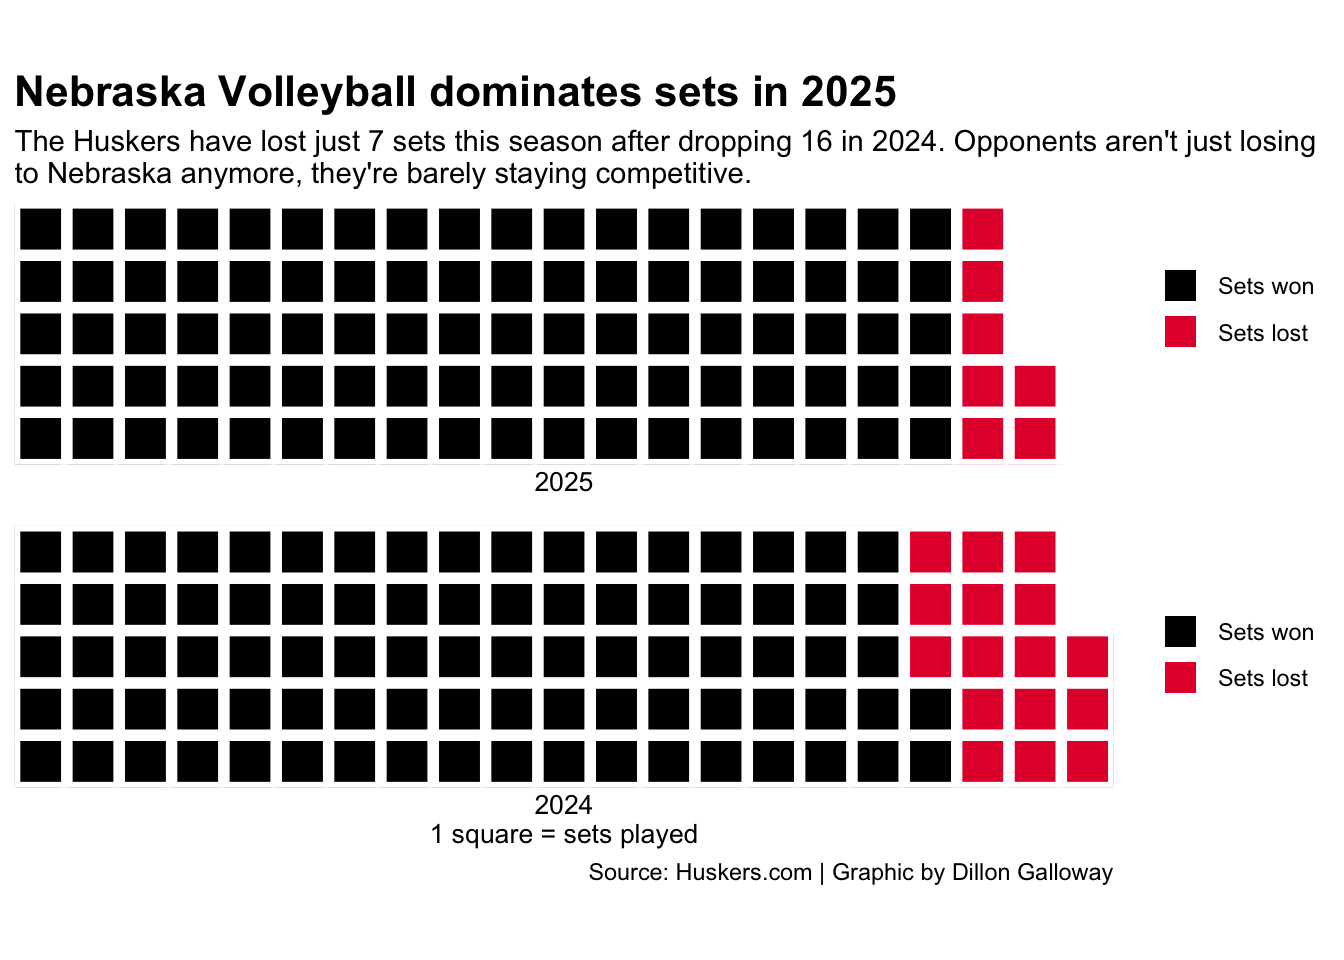
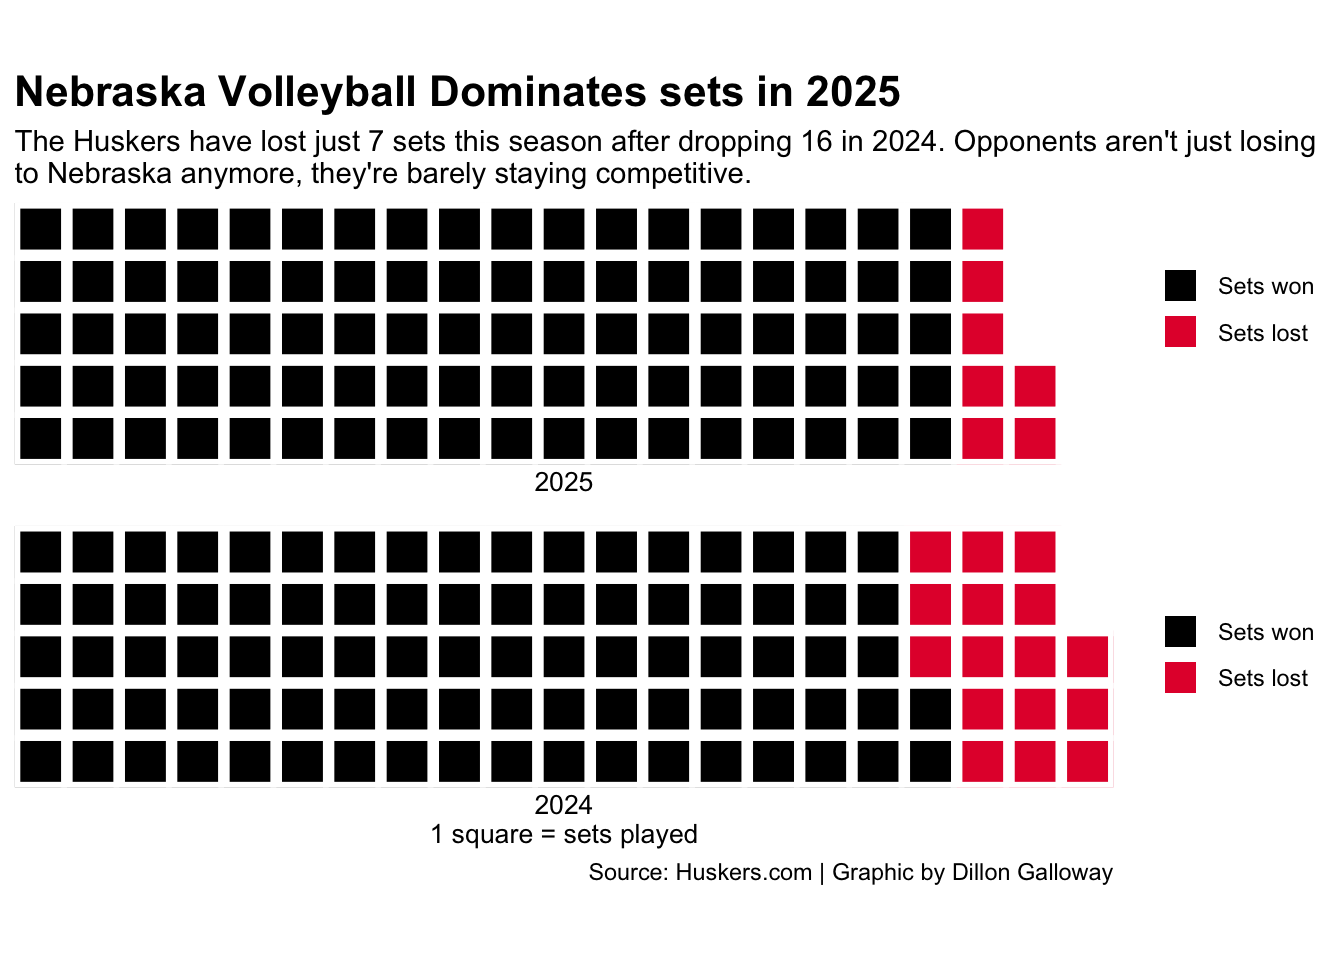
post image and fixes

Changed region(s): [[0.3125, 0.0625, 0.6875, 0.125]]

diff --git a/posts/has_nebraska_volleyball_improved_in_2025/index.html b/posts/has_nebraska_volleyball_improved_in_2025/index.html
@@ -218,7 +218,7 @@ pre > code.sourceCode > span > a:first-child::before { text-decoration: underlin
 <span id="cb1-14"><a href="#cb1-14" aria-hidden="true" tabindex="-1"></a>        <span class="at">colors =</span> <span class="fu">c</span>(<span class="st">"#000000"</span>, <span class="st">"#E41C38"</span>,<span class="st">"white"</span>)) <span class="sc">+</span> </span>
 <span id="cb1-15"><a href="#cb1-15" aria-hidden="true" tabindex="-1"></a>   <span class="fu">labs</span>(</span>
 <span id="cb1-16"><a href="#cb1-16" aria-hidden="true" tabindex="-1"></a>     <span class="at">x=</span><span class="st">"2025"</span>,</span>
-<span id="cb1-17"><a href="#cb1-17" aria-hidden="true" tabindex="-1"></a>     <span class="at">title=</span><span class="st">"Nebraska Volleyball dominates sets in 2025"</span>, </span>
+<span id="cb1-17"><a href="#cb1-17" aria-hidden="true" tabindex="-1"></a>     <span class="at">title=</span><span class="st">"Nebraska Volleyball Dominates sets in 2025"</span>, </span>
 <span id="cb1-18"><a href="#cb1-18" aria-hidden="true" tabindex="-1"></a>     <span class="at">subtitle=</span><span class="st">"The Huskers have lost just 7 sets this season after dropping 16 in 2024. Opponents aren't just losing </span><span class="sc">\n</span><span class="st">to Nebraska anymore, they're barely staying competitive."</span>) <span class="sc">+</span> </span>
 <span id="cb1-19"><a href="#cb1-19" aria-hidden="true" tabindex="-1"></a>   <span class="fu">theme</span>(</span>
 <span id="cb1-20"><a href="#cb1-20" aria-hidden="true" tabindex="-1"></a>    <span class="at">plot.title =</span> <span class="fu">element_text</span>(<span class="at">size =</span> <span class="dv">16</span>, <span class="at">face =</span> <span class="st">"bold"</span>),</span>
@@ -334,60 +334,58 @@ pre > code.sourceCode > span > a:first-child::before { text-decoration: underlin
 <span id="cb3-21"><a href="#cb3-21" aria-hidden="true" tabindex="-1"></a>  <span class="fu">geom_beeswarm</span>(</span>
 <span id="cb3-22"><a href="#cb3-22" aria-hidden="true" tabindex="-1"></a>    <span class="at">data=</span>neb24, </span>
 <span id="cb3-23"><a href="#cb3-23" aria-hidden="true" tabindex="-1"></a>    <span class="at">groupOnX=</span><span class="cn">TRUE</span>, </span>
-<span id="cb3-24"><a href="#cb3-24" aria-hidden="true" tabindex="-1"></a>    <span class="fu">aes</span>(<span class="at">x=</span>hit_pct, <span class="at">y=</span> conference), <span class="at">color=</span><span class="st">"red"</span>,<span class="at">size=</span><span class="dv">3</span>)<span class="sc">+</span></span>
+<span id="cb3-24"><a href="#cb3-24" aria-hidden="true" tabindex="-1"></a>    <span class="fu">aes</span>(<span class="at">x=</span>hit_pct, <span class="at">y=</span> conference), <span class="at">color=</span><span class="st">"#E41C38"</span>,<span class="at">size=</span><span class="dv">3</span>)<span class="sc">+</span></span>
 <span id="cb3-25"><a href="#cb3-25" aria-hidden="true" tabindex="-1"></a>  <span class="fu">geom_text_repel</span>(</span>
 <span id="cb3-26"><a href="#cb3-26" aria-hidden="true" tabindex="-1"></a>    <span class="at">data=</span>neb24, </span>
 <span id="cb3-27"><a href="#cb3-27" aria-hidden="true" tabindex="-1"></a>    <span class="fu">aes</span>(<span class="at">x=</span>hit_pct, <span class="at">y=</span> conference, <span class="at">label=</span><span class="st">"Nebraska"</span>))<span class="sc">+</span></span>
 <span id="cb3-28"><a href="#cb3-28" aria-hidden="true" tabindex="-1"></a>  <span class="fu">scale_x_continuous</span>(<span class="at">breaks =</span> <span class="fu">c</span>(.<span class="dv">15</span>, .<span class="dv">20</span>, .<span class="dv">25</span>, .<span class="dv">30</span>, .<span class="dv">35</span>, .<span class="dv">40</span>), <span class="at">limits=</span><span class="fu">c</span>(.<span class="dv">15</span>, .<span class="dv">4</span>)) <span class="sc">+</span></span>
 <span id="cb3-29"><a href="#cb3-29" aria-hidden="true" tabindex="-1"></a>  <span class="fu">labs</span>(</span>
-<span id="cb3-30"><a href="#cb3-30" aria-hidden="true" tabindex="-1"></a>    <span class="at">x=</span><span class="st">"Offensive Hitting Percentage 2024"</span>, <span class="at">y=</span><span class="st">""</span>, </span>
-<span id="cb3-31"><a href="#cb3-31" aria-hidden="true" tabindex="-1"></a>    <span class="at">title=</span><span class="st">""</span>) <span class="sc">+</span> </span>
-<span id="cb3-32"><a href="#cb3-32" aria-hidden="true" tabindex="-1"></a>  <span class="fu">theme_minimal</span>() <span class="sc">+</span> </span>
-<span id="cb3-33"><a href="#cb3-33" aria-hidden="true" tabindex="-1"></a>  <span class="fu">theme</span>(</span>
-<span id="cb3-34"><a href="#cb3-34" aria-hidden="true" tabindex="-1"></a>    <span class="at">plot.title =</span> <span class="fu">element_text</span>(<span class="at">size =</span> <span class="dv">17</span>, <span class="at">face =</span> <span class="st">"bold"</span>),</span>
-<span id="cb3-35"><a href="#cb3-35" aria-hidden="true" tabindex="-1"></a>    <span class="at">axis.title =</span> <span class="fu">element_text</span>(<span class="at">size =</span> <span class="dv">10</span>,<span class="at">face =</span> <span class="st">"bold"</span>), </span>
-<span id="cb3-36"><a href="#cb3-36" aria-hidden="true" tabindex="-1"></a>    <span class="at">plot.subtitle =</span> <span class="fu">element_text</span>(<span class="at">size=</span><span class="dv">11</span>), </span>
-<span id="cb3-37"><a href="#cb3-37" aria-hidden="true" tabindex="-1"></a>    <span class="at">panel.grid.minor =</span> <span class="fu">element_blank</span>(),</span>
-<span id="cb3-38"><a href="#cb3-38" aria-hidden="true" tabindex="-1"></a>    <span class="at">plot.title.position =</span> <span class="st">"plot"</span></span>
-<span id="cb3-39"><a href="#cb3-39" aria-hidden="true" tabindex="-1"></a>  )</span>
-<span id="cb3-40"><a href="#cb3-40" aria-hidden="true" tabindex="-1"></a></span>
-<span id="cb3-41"><a href="#cb3-41" aria-hidden="true" tabindex="-1"></a>beeswarm25 <span class="ot">&lt;-</span><span class="fu">ggplot</span>() <span class="sc">+</span></span>
-<span id="cb3-42"><a href="#cb3-42" aria-hidden="true" tabindex="-1"></a>  <span class="fu">geom_beeswarm</span>(</span>
-<span id="cb3-43"><a href="#cb3-43" aria-hidden="true" tabindex="-1"></a>    <span class="at">data=</span>topconference25, </span>
-<span id="cb3-44"><a href="#cb3-44" aria-hidden="true" tabindex="-1"></a>    <span class="at">groupOnX=</span><span class="cn">TRUE</span>, </span>
-<span id="cb3-45"><a href="#cb3-45" aria-hidden="true" tabindex="-1"></a>    <span class="fu">aes</span>(<span class="at">x=</span>hit_pct, <span class="at">y=</span>conference), <span class="at">color=</span><span class="st">"grey"</span>) <span class="sc">+</span></span>
-<span id="cb3-46"><a href="#cb3-46" aria-hidden="true" tabindex="-1"></a>  <span class="fu">geom_beeswarm</span>(</span>
-<span id="cb3-47"><a href="#cb3-47" aria-hidden="true" tabindex="-1"></a>    <span class="at">data=</span>neb25, </span>
-<span id="cb3-48"><a href="#cb3-48" aria-hidden="true" tabindex="-1"></a>    <span class="at">groupOnX=</span><span class="cn">TRUE</span>, </span>
-<span id="cb3-49"><a href="#cb3-49" aria-hidden="true" tabindex="-1"></a>    <span class="fu">aes</span>(<span class="at">x=</span>hit_pct, <span class="at">y=</span> conference), <span class="at">color=</span><span class="st">"red"</span>,<span class="at">size=</span><span class="dv">3</span>)<span class="sc">+</span></span>
-<span id="cb3-50"><a href="#cb3-50" aria-hidden="true" tabindex="-1"></a>  <span class="fu">geom_text_repel</span>(</span>
-<span id="cb3-51"><a href="#cb3-51" aria-hidden="true" tabindex="-1"></a>    <span class="at">data=</span>neb25, </span>
-<span id="cb3-52"><a href="#cb3-52" aria-hidden="true" tabindex="-1"></a>    <span class="fu">aes</span>(<span class="at">x=</span>hit_pct, <span class="at">y=</span> conference, <span class="at">label=</span><span class="st">"Nebraska"</span>))<span class="sc">+</span></span>
-<span id="cb3-53"><a href="#cb3-53" aria-hidden="true" tabindex="-1"></a>  <span class="fu">scale_x_continuous</span>(<span class="at">breaks =</span> <span class="fu">c</span>(.<span class="dv">15</span>, .<span class="dv">20</span>, .<span class="dv">25</span>, .<span class="dv">30</span>, .<span class="dv">35</span>, .<span class="dv">40</span>), <span class="at">limits=</span><span class="fu">c</span>(.<span class="dv">15</span>, .<span class="dv">4</span>)) <span class="sc">+</span></span>
-<span id="cb3-54"><a href="#cb3-54" aria-hidden="true" tabindex="-1"></a>  <span class="fu">labs</span>(</span>
-<span id="cb3-55"><a href="#cb3-55" aria-hidden="true" tabindex="-1"></a>    <span class="at">x=</span><span class="st">"Offensive Hitting Percentage 2025"</span>, <span class="at">y=</span><span class="st">""</span>, </span>
-<span id="cb3-56"><a href="#cb3-56" aria-hidden="true" tabindex="-1"></a>    <span class="at">title=</span><span class="st">""</span>) <span class="sc">+</span> </span>
-<span id="cb3-57"><a href="#cb3-57" aria-hidden="true" tabindex="-1"></a>  <span class="fu">theme_minimal</span>() <span class="sc">+</span> </span>
-<span id="cb3-58"><a href="#cb3-58" aria-hidden="true" tabindex="-1"></a>  <span class="fu">theme</span>(</span>
-<span id="cb3-59"><a href="#cb3-59" aria-hidden="true" tabindex="-1"></a>    <span class="at">plot.title =</span> <span class="fu">element_text</span>(<span class="at">size =</span> <span class="dv">17</span>, <span class="at">face =</span> <span class="st">"bold"</span>),</span>
-<span id="cb3-60"><a href="#cb3-60" aria-hidden="true" tabindex="-1"></a>    <span class="at">axis.title =</span> <span class="fu">element_text</span>(<span class="at">size =</span> <span class="dv">10</span>,<span class="at">face =</span> <span class="st">"bold"</span>), </span>
-<span id="cb3-61"><a href="#cb3-61" aria-hidden="true" tabindex="-1"></a>    <span class="at">plot.subtitle =</span> <span class="fu">element_text</span>(<span class="at">size=</span><span class="dv">11</span>), </span>
-<span id="cb3-62"><a href="#cb3-62" aria-hidden="true" tabindex="-1"></a>    <span class="at">panel.grid.minor =</span> <span class="fu">element_blank</span>(),</span>
-<span id="cb3-63"><a href="#cb3-63" aria-hidden="true" tabindex="-1"></a>    <span class="at">plot.title.position =</span> <span class="st">"plot"</span></span>
-<span id="cb3-64"><a href="#cb3-64" aria-hidden="true" tabindex="-1"></a>  )</span>
-<span id="cb3-65"><a href="#cb3-65" aria-hidden="true" tabindex="-1"></a></span>
-<span id="cb3-66"><a href="#cb3-66" aria-hidden="true" tabindex="-1"></a>beeswarm24 <span class="sc">+</span> beeswarm25 <span class="sc">+</span> </span>
-<span id="cb3-67"><a href="#cb3-67" aria-hidden="true" tabindex="-1"></a>  <span class="fu">plot_annotation</span>(</span>
-<span id="cb3-68"><a href="#cb3-68" aria-hidden="true" tabindex="-1"></a>    <span class="at">title =</span> <span class="st">"From Top-10 Offense to Best in the Nation"</span>,</span>
-<span id="cb3-69"><a href="#cb3-69" aria-hidden="true" tabindex="-1"></a>    <span class="at">subtitle =</span> <span class="st">"Nebraska jumped from .284 to .352 in hitting percentage, to claim the #1 spot nationally by a notable margin."</span>,</span>
-<span id="cb3-70"><a href="#cb3-70" aria-hidden="true" tabindex="-1"></a>    <span class="at">caption =</span> <span class="st">"Source:  NCAA | By Dillon Galloway"</span></span>
-<span id="cb3-71"><a href="#cb3-71" aria-hidden="true" tabindex="-1"></a>  ) <span class="sc">&amp;</span> </span>
-<span id="cb3-72"><a href="#cb3-72" aria-hidden="true" tabindex="-1"></a>  <span class="fu">theme</span>(</span>
-<span id="cb3-73"><a href="#cb3-73" aria-hidden="true" tabindex="-1"></a>    <span class="at">plot.title =</span> <span class="fu">element_text</span>(<span class="at">size =</span> <span class="dv">16</span>, <span class="at">face =</span> <span class="st">"bold"</span>),</span>
-<span id="cb3-74"><a href="#cb3-74" aria-hidden="true" tabindex="-1"></a>    <span class="at">axis.title =</span> <span class="fu">element_text</span>(<span class="at">size =</span> <span class="dv">8</span>), </span>
-<span id="cb3-75"><a href="#cb3-75" aria-hidden="true" tabindex="-1"></a>    <span class="at">plot.subtitle =</span> <span class="fu">element_text</span>(<span class="at">size=</span><span class="dv">10</span>), </span>
-<span id="cb3-76"><a href="#cb3-76" aria-hidden="true" tabindex="-1"></a>    <span class="at">panel.grid.minor =</span> <span class="fu">element_blank</span>()</span>
-<span id="cb3-77"><a href="#cb3-77" aria-hidden="true" tabindex="-1"></a>  )</span></code></pre></div><button title="Copy to Clipboard" class="code-copy-button"><i class="bi"></i></button></div>
+<span id="cb3-30"><a href="#cb3-30" aria-hidden="true" tabindex="-1"></a>    <span class="at">x=</span><span class="st">"Offensive Hitting Percentage 2024"</span>, <span class="at">y=</span><span class="st">""</span>) <span class="sc">+</span> </span>
+<span id="cb3-31"><a href="#cb3-31" aria-hidden="true" tabindex="-1"></a>  <span class="fu">theme_minimal</span>() <span class="sc">+</span> </span>
+<span id="cb3-32"><a href="#cb3-32" aria-hidden="true" tabindex="-1"></a>  <span class="fu">theme</span>(</span>
+<span id="cb3-33"><a href="#cb3-33" aria-hidden="true" tabindex="-1"></a>    <span class="at">plot.title =</span> <span class="fu">element_text</span>(<span class="at">size =</span> <span class="dv">17</span>, <span class="at">face =</span> <span class="st">"bold"</span>),</span>
+<span id="cb3-34"><a href="#cb3-34" aria-hidden="true" tabindex="-1"></a>    <span class="at">axis.title =</span> <span class="fu">element_text</span>(<span class="at">size =</span> <span class="dv">10</span>,<span class="at">face =</span> <span class="st">"bold"</span>), </span>
+<span id="cb3-35"><a href="#cb3-35" aria-hidden="true" tabindex="-1"></a>    <span class="at">plot.subtitle =</span> <span class="fu">element_text</span>(<span class="at">size=</span><span class="dv">11</span>), </span>
+<span id="cb3-36"><a href="#cb3-36" aria-hidden="true" tabindex="-1"></a>    <span class="at">panel.grid.minor =</span> <span class="fu">element_blank</span>(),</span>
+<span id="cb3-37"><a href="#cb3-37" aria-hidden="true" tabindex="-1"></a>    <span class="at">plot.title.position =</span> <span class="st">"plot"</span></span>
+<span id="cb3-38"><a href="#cb3-38" aria-hidden="true" tabindex="-1"></a>  )</span>
+<span id="cb3-39"><a href="#cb3-39" aria-hidden="true" tabindex="-1"></a></span>
+<span id="cb3-40"><a href="#cb3-40" aria-hidden="true" tabindex="-1"></a>beeswarm25 <span class="ot">&lt;-</span><span class="fu">ggplot</span>() <span class="sc">+</span></span>
+<span id="cb3-41"><a href="#cb3-41" aria-hidden="true" tabindex="-1"></a>  <span class="fu">geom_beeswarm</span>(</span>
+<span id="cb3-42"><a href="#cb3-42" aria-hidden="true" tabindex="-1"></a>    <span class="at">data=</span>topconference25, </span>
+<span id="cb3-43"><a href="#cb3-43" aria-hidden="true" tabindex="-1"></a>    <span class="at">groupOnX=</span><span class="cn">TRUE</span>, </span>
+<span id="cb3-44"><a href="#cb3-44" aria-hidden="true" tabindex="-1"></a>    <span class="fu">aes</span>(<span class="at">x=</span>hit_pct, <span class="at">y=</span>conference), <span class="at">color=</span><span class="st">"grey"</span>) <span class="sc">+</span></span>
+<span id="cb3-45"><a href="#cb3-45" aria-hidden="true" tabindex="-1"></a>  <span class="fu">geom_beeswarm</span>(</span>
+<span id="cb3-46"><a href="#cb3-46" aria-hidden="true" tabindex="-1"></a>    <span class="at">data=</span>neb25, </span>
+<span id="cb3-47"><a href="#cb3-47" aria-hidden="true" tabindex="-1"></a>    <span class="at">groupOnX=</span><span class="cn">TRUE</span>, </span>
+<span id="cb3-48"><a href="#cb3-48" aria-hidden="true" tabindex="-1"></a>    <span class="fu">aes</span>(<span class="at">x=</span>hit_pct, <span class="at">y=</span> conference), <span class="at">color=</span><span class="st">"red"</span>,<span class="at">size=</span><span class="dv">3</span>)<span class="sc">+</span></span>
+<span id="cb3-49"><a href="#cb3-49" aria-hidden="true" tabindex="-1"></a>  <span class="fu">geom_text_repel</span>(</span>
+<span id="cb3-50"><a href="#cb3-50" aria-hidden="true" tabindex="-1"></a>    <span class="at">data=</span>neb25, </span>
+<span id="cb3-51"><a href="#cb3-51" aria-hidden="true" tabindex="-1"></a>    <span class="fu">aes</span>(<span class="at">x=</span>hit_pct, <span class="at">y=</span> conference, <span class="at">label=</span><span class="st">"Nebraska"</span>))<span class="sc">+</span></span>
+<span id="cb3-52"><a href="#cb3-52" aria-hidden="true" tabindex="-1"></a>  <span class="fu">scale_x_continuous</span>(<span class="at">breaks =</span> <span class="fu">c</span>(.<span class="dv">15</span>, .<span class="dv">20</span>, .<span class="dv">25</span>, .<span class="dv">30</span>, .<span class="dv">35</span>, .<span class="dv">40</span>), <span class="at">limits=</span><span class="fu">c</span>(.<span class="dv">15</span>, .<span class="dv">4</span>)) <span class="sc">+</span></span>
+<span id="cb3-53"><a href="#cb3-53" aria-hidden="true" tabindex="-1"></a>  <span class="fu">labs</span>(</span>
+<span id="cb3-54"><a href="#cb3-54" aria-hidden="true" tabindex="-1"></a>    <span class="at">x=</span><span class="st">"Offensive Hitting Percentage 2025"</span>, <span class="at">y=</span><span class="st">""</span>) <span class="sc">+</span> </span>
+<span id="cb3-55"><a href="#cb3-55" aria-hidden="true" tabindex="-1"></a>  <span class="fu">theme_minimal</span>() <span class="sc">+</span> </span>
+<span id="cb3-56"><a href="#cb3-56" aria-hidden="true" tabindex="-1"></a>  <span class="fu">theme</span>(</span>
+<span id="cb3-57"><a href="#cb3-57" aria-hidden="true" tabindex="-1"></a>    <span class="at">plot.title =</span> <span class="fu">element_text</span>(<span class="at">size =</span> <span class="dv">17</span>, <span class="at">face =</span> <span class="st">"bold"</span>),</span>
+<span id="cb3-58"><a href="#cb3-58" aria-hidden="true" tabindex="-1"></a>    <span class="at">axis.title =</span> <span class="fu">element_text</span>(<span class="at">size =</span> <span class="dv">10</span>,<span class="at">face =</span> <span class="st">"bold"</span>), </span>
+<span id="cb3-59"><a href="#cb3-59" aria-hidden="true" tabindex="-1"></a>    <span class="at">plot.subtitle =</span> <span class="fu">element_text</span>(<span class="at">size=</span><span class="dv">11</span>), </span>
+<span id="cb3-60"><a href="#cb3-60" aria-hidden="true" tabindex="-1"></a>    <span class="at">panel.grid.minor =</span> <span class="fu">element_blank</span>(),</span>
+<span id="cb3-61"><a href="#cb3-61" aria-hidden="true" tabindex="-1"></a>    <span class="at">plot.title.position =</span> <span class="st">"plot"</span></span>
+<span id="cb3-62"><a href="#cb3-62" aria-hidden="true" tabindex="-1"></a>  )</span>
+<span id="cb3-63"><a href="#cb3-63" aria-hidden="true" tabindex="-1"></a></span>
+<span id="cb3-64"><a href="#cb3-64" aria-hidden="true" tabindex="-1"></a>beeswarm24 <span class="sc">+</span> beeswarm25 <span class="sc">+</span> </span>
+<span id="cb3-65"><a href="#cb3-65" aria-hidden="true" tabindex="-1"></a>  <span class="fu">plot_annotation</span>(</span>
+<span id="cb3-66"><a href="#cb3-66" aria-hidden="true" tabindex="-1"></a>    <span class="at">title =</span> <span class="st">"From Top-Level Offense to Best in the Nation"</span>,</span>
+<span id="cb3-67"><a href="#cb3-67" aria-hidden="true" tabindex="-1"></a>    <span class="at">subtitle =</span> <span class="st">"Nebraska jumped from .284 to .352 in hitting percentage, to claim the #1 spot nationally by a notable margin."</span>,</span>
+<span id="cb3-68"><a href="#cb3-68" aria-hidden="true" tabindex="-1"></a>    <span class="at">caption =</span> <span class="st">"Source:  NCAA | By Dillon Galloway"</span></span>
+<span id="cb3-69"><a href="#cb3-69" aria-hidden="true" tabindex="-1"></a>  ) <span class="sc">&amp;</span> </span>
+<span id="cb3-70"><a href="#cb3-70" aria-hidden="true" tabindex="-1"></a>  <span class="fu">theme</span>(</span>
+<span id="cb3-71"><a href="#cb3-71" aria-hidden="true" tabindex="-1"></a>    <span class="at">plot.title =</span> <span class="fu">element_text</span>(<span class="at">size =</span> <span class="dv">16</span>, <span class="at">face =</span> <span class="st">"bold"</span>),</span>
+<span id="cb3-72"><a href="#cb3-72" aria-hidden="true" tabindex="-1"></a>    <span class="at">axis.title =</span> <span class="fu">element_text</span>(<span class="at">size =</span> <span class="dv">8</span>), </span>
+<span id="cb3-73"><a href="#cb3-73" aria-hidden="true" tabindex="-1"></a>    <span class="at">plot.subtitle =</span> <span class="fu">element_text</span>(<span class="at">size=</span><span class="dv">10</span>), </span>
+<span id="cb3-74"><a href="#cb3-74" aria-hidden="true" tabindex="-1"></a>    <span class="at">panel.grid.minor =</span> <span class="fu">element_blank</span>()</span>
+<span id="cb3-75"><a href="#cb3-75" aria-hidden="true" tabindex="-1"></a>  )</span></code></pre></div><button title="Copy to Clipboard" class="code-copy-button"><i class="bi"></i></button></div>
 </details>
 <div class="cell-output-display">
 <div>

diff --git a/index.html b/index.html
@@ -209,10 +209,10 @@ window.Quarto = {
 
 <div class="quarto-listing quarto-listing-container-default" id="listing-listing">
 <div class="list quarto-listing-default">
-<div class="quarto-post image-right" data-index="0" data-categories="dm9sbGV5YmFsbCUyQ3N0YXRzJTJDY29sbGVnZQ==" data-listing-date-sort="1764914400000" data-listing-file-modified-sort="1764964489015" data-listing-date-modified-sort="NaN" data-listing-reading-time-sort="9" data-listing-word-count-sort="1622">
+<div class="quarto-post image-right" data-index="0" data-categories="dm9sbGV5YmFsbCUyQ3N0YXRzJTJDY29sbGVnZQ==" data-listing-date-sort="1764914400000" data-listing-file-modified-sort="1764965559278" data-listing-date-modified-sort="NaN" data-listing-reading-time-sort="9" data-listing-word-count-sort="1612">
 <div class="thumbnail"><a href="./posts/has_nebraska_volleyball_improved_in_2025/index.html" class="no-external">
 
-<img loading="lazy" src="./posts/has_nebraska_volleyball_improved_in_2025/post_one_image.png" class="thumbnail-image">
+<img loading="lazy" src="./posts/has_nebraska_volleyball_improved_in_2025/title_image.png" class="thumbnail-image">
 
 </a></div>
 <div class="body">
